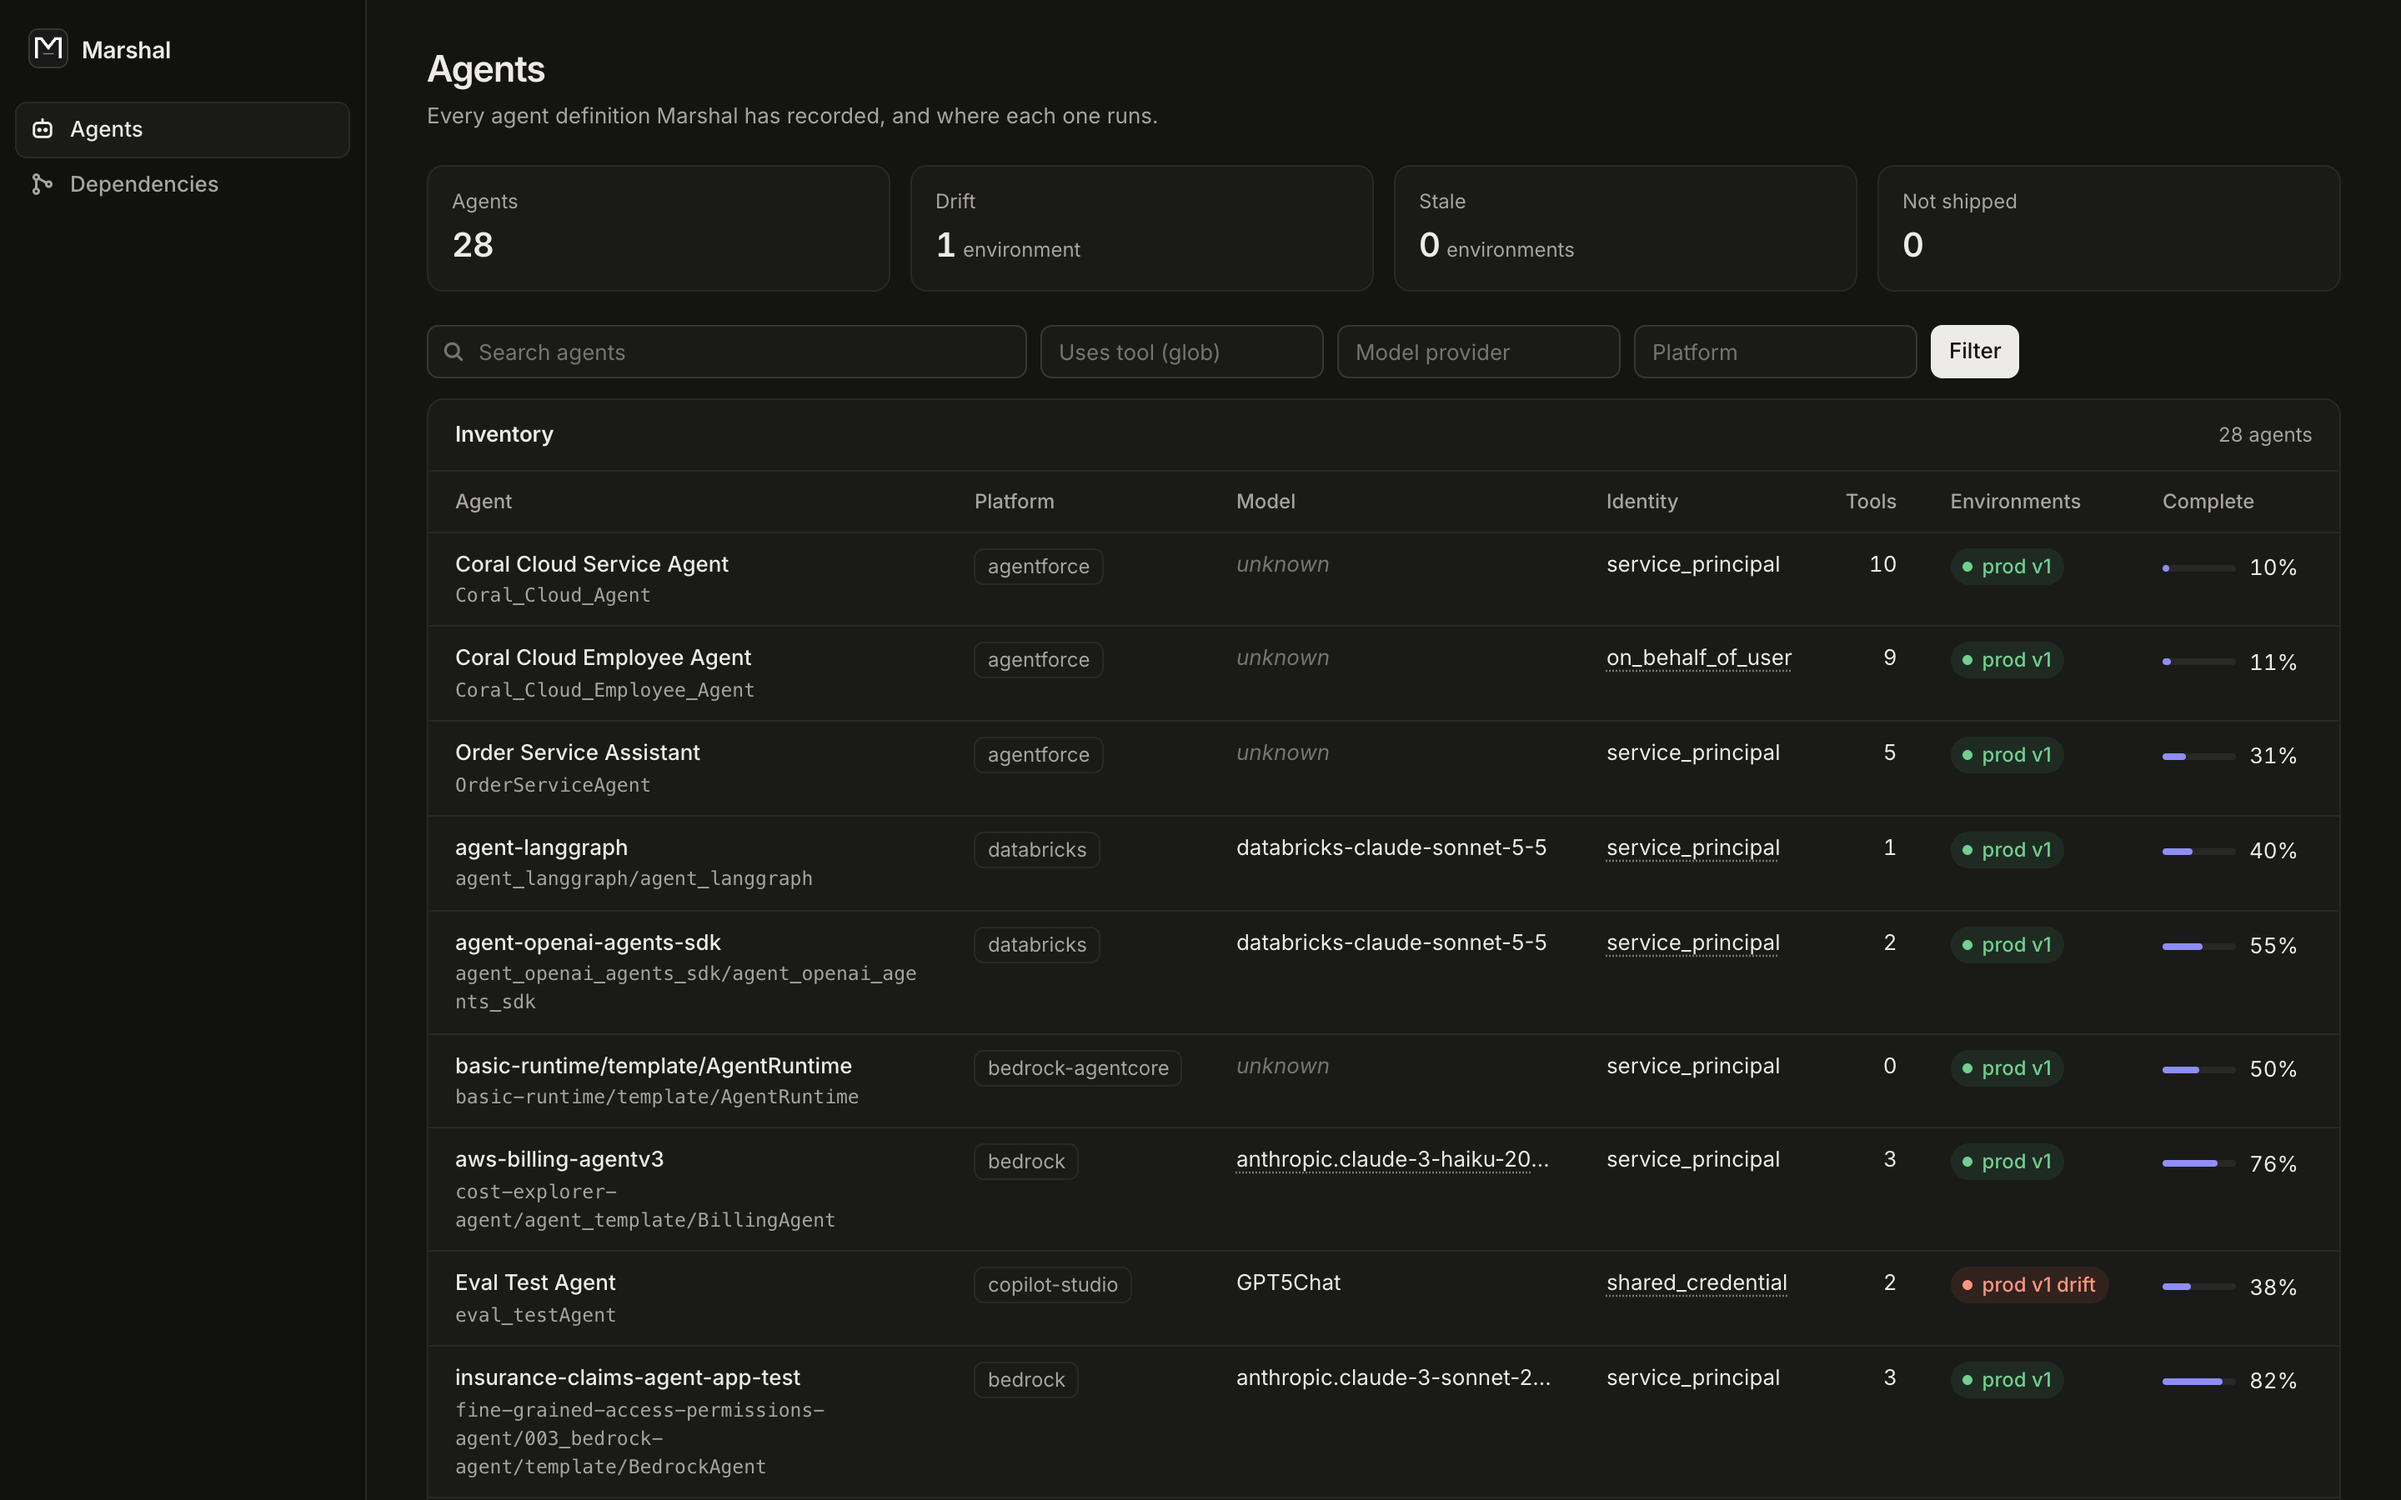
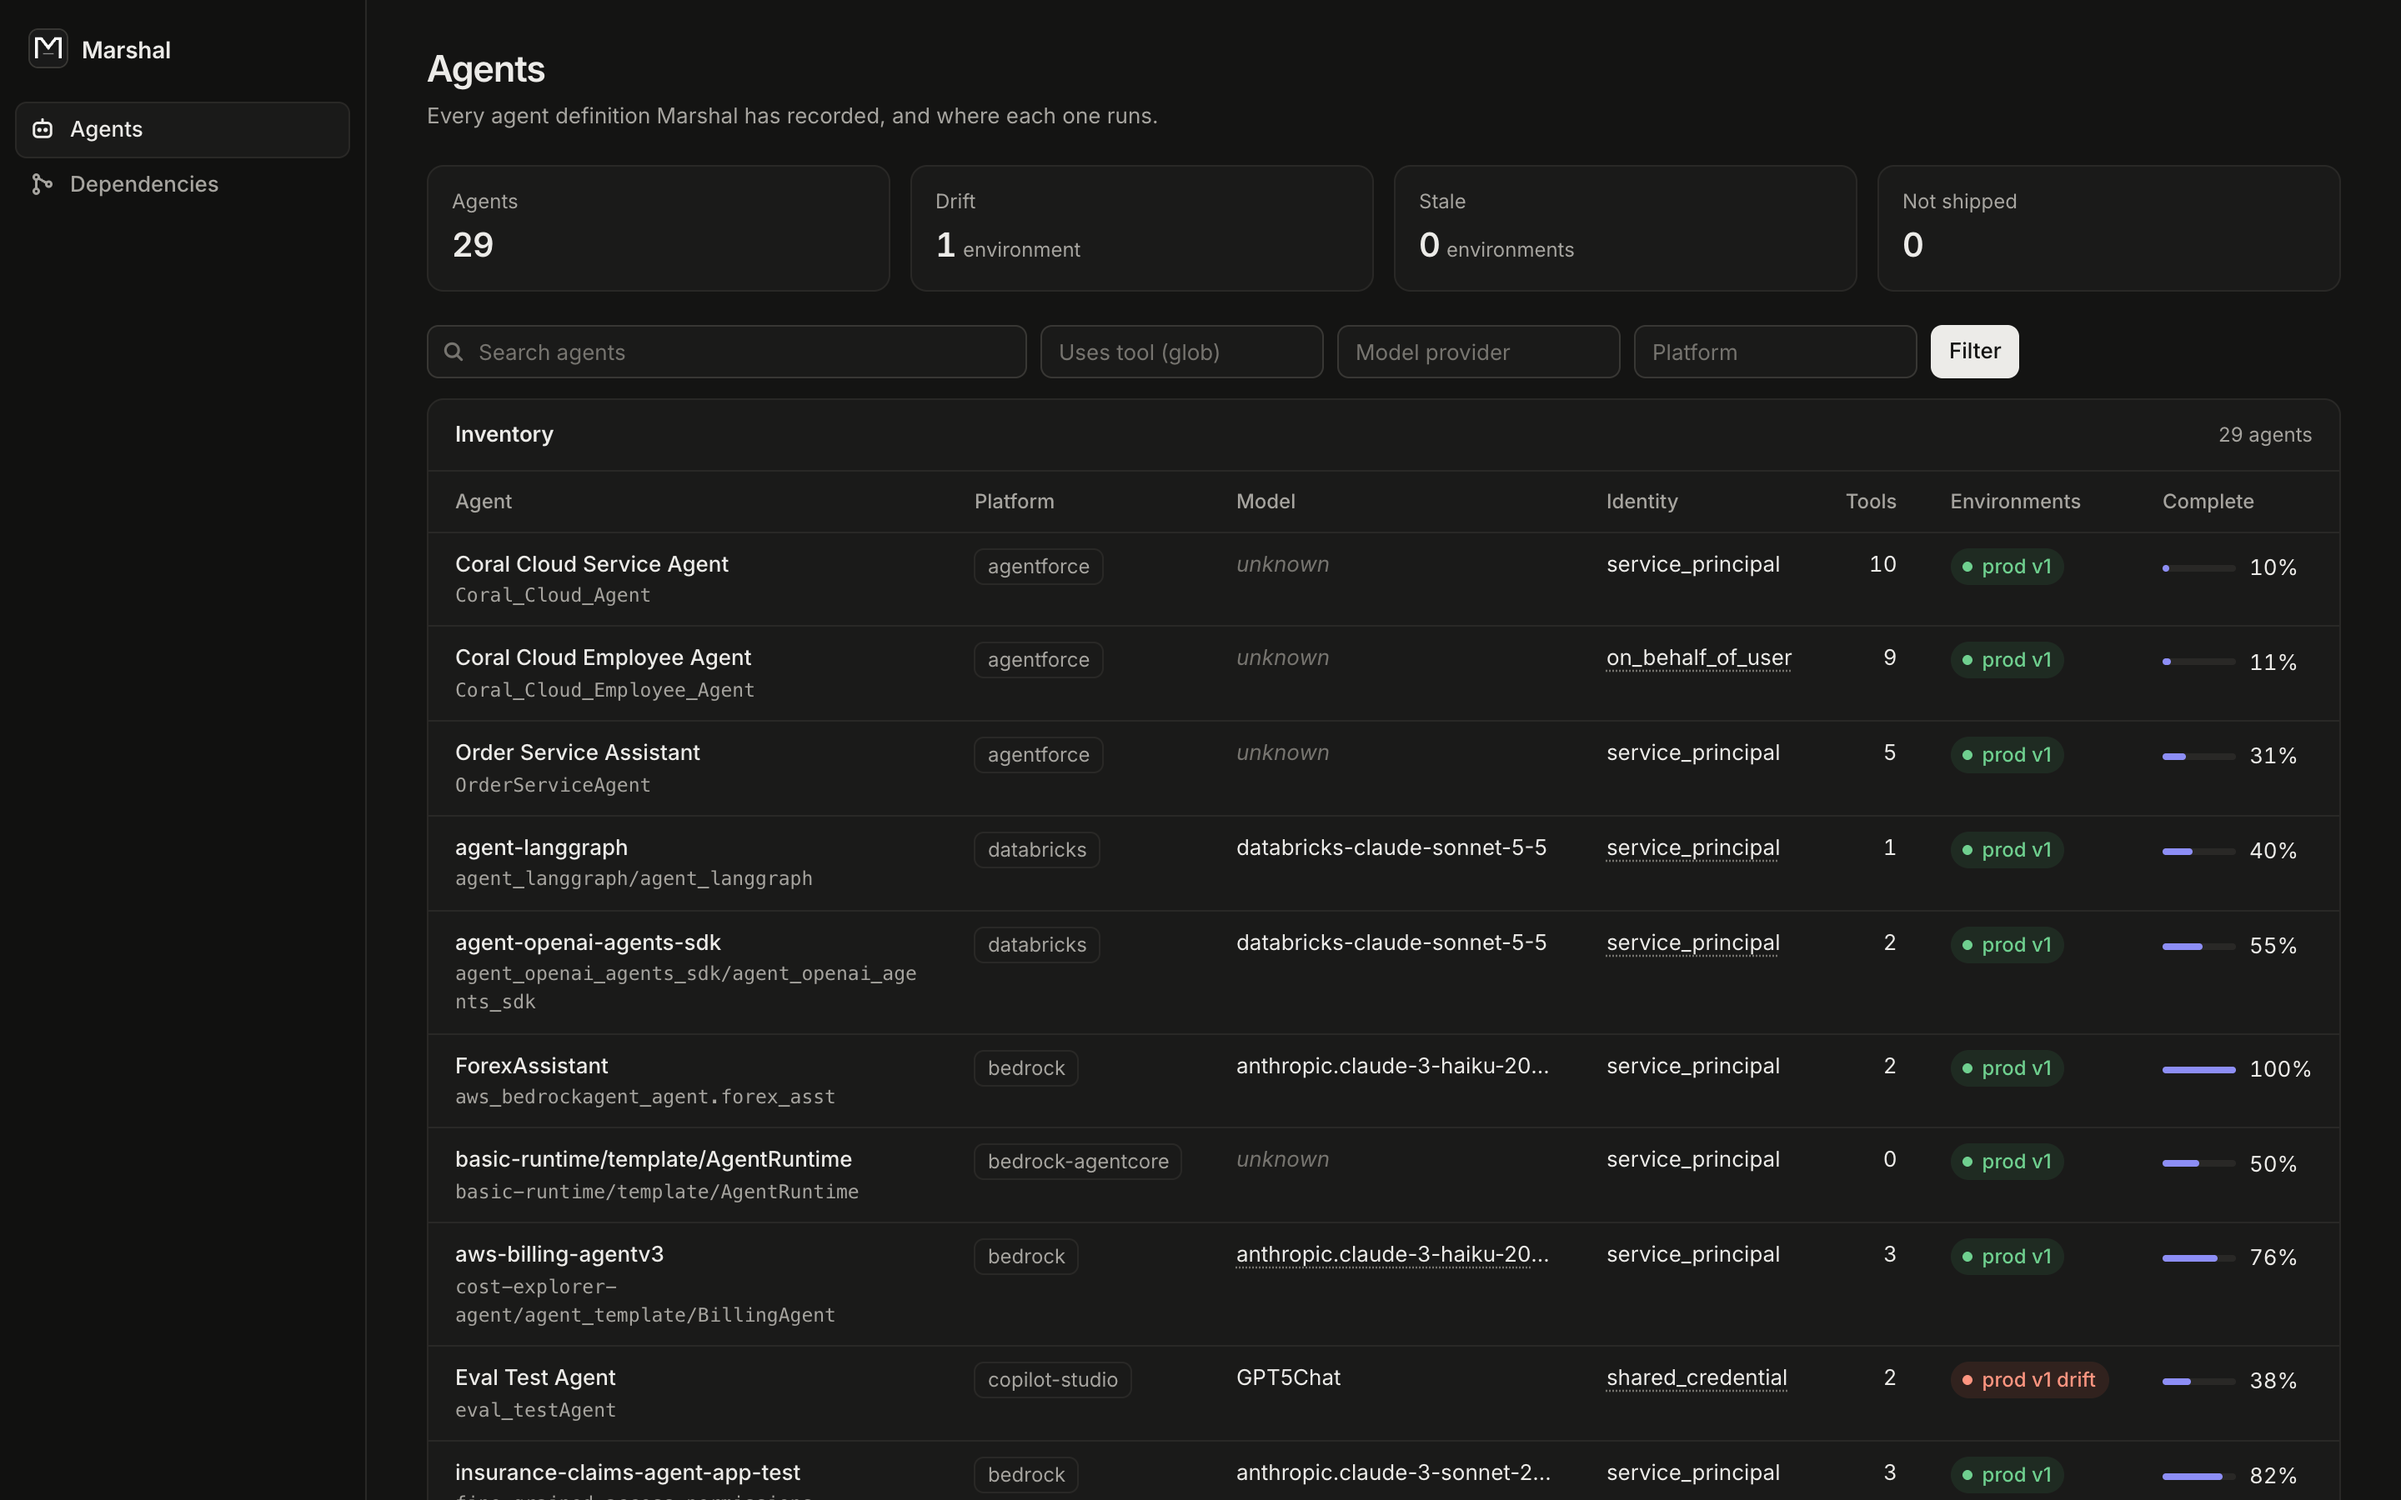
Demo: a Bedrock agent read from a Terraform plan (#28)
marshal demo fetches the acwwat-basic plan fixture from this repository,
pinned to the commit that added it, and records the forex assistant
with its action group, role and Lambda executor: 29 agents. The plan is
generated from a public Apache-2.0 example (see
tests/fixtures/terraform/README.md). Docs, screenshots and the web
view walkthrough are updated for the count.

diff --git a/src/marshal_ledger/demo.py b/src/marshal_ledger/demo.py
@@ -1,7 +1,8 @@
 """A demo ledger built from real, public agent definitions.
 
 ``marshal demo`` downloads a fixed set of agent definitions from public GitHub
-repositories, each pinned to a commit, and records them with a short history:
+repositories, each pinned to a commit (one is a Terraform plan this project generated
+from a public example; see tests/fixtures/terraform/README.md), and records them with a short history:
 agents shipped to prod, a proposed change that adds a refund function, a Copilot
 Studio agent that drifted after an edit in its web designer, and a proposed Copilot
 Studio topic that calls the API host the public ADL agents may reach, so the agents

diff --git a/scripts/build_demo.py b/scripts/build_demo.py
@@ -38,6 +38,7 @@ DEMO = [
     ("python/google-adk", None),
     ("adk-config/samples/multi_agent", None),
     ("adl/examples/packages", None),
+    ("terraform/acwwat-basic", None),
 ]
 
 

diff --git a/docs/index.md b/docs/index.md
@@ -15,7 +15,7 @@ Marshal keeps one versioned record of every AI agent in an organization, whateve
 [Get started](getting-started.md){ .md-button }
 [GitHub](https://github.com/marshal-ledger/marshal){ .md-button }
 
-![A walk through the Marshal web view: the inventory of 28 public agents, a Copilot Studio agent in drift whose tool was switched to the maker's credentials, a proposed change that adds a refund function, and the agents that share an Apex action](assets/web-tour.gif)
+![A walk through the Marshal web view: the inventory of 29 public agents, a Copilot Studio agent in drift whose tool was switched to the maker's credentials, a proposed change that adds a refund function, and the agents that share an Apex action](assets/web-tour.gif)
 
 ## What it does
 
@@ -27,8 +27,8 @@ Marshal keeps one versioned record of every AI agent in an organization, whateve
 - **Portability scores** for moving an agent to another platform, from a community-maintained capability matrix.
 - **No shared secrets:** pipelines push records authenticated by their CI provider's OIDC token. Marshal never connects to agent platforms.
 
-![The Marshal web view: an inventory of 28 agents across Agentforce, Databricks, Bedrock, Copilot Studio and Google ADK, with one environment in drift](assets/web-inventory-light.png#only-light)
-![The Marshal web view: an inventory of 28 agents across Agentforce, Databricks, Bedrock, Copilot Studio and Google ADK, with one environment in drift](assets/web-inventory-dark.png#only-dark)
+![The Marshal web view: an inventory of 29 agents across Agentforce, Databricks, Bedrock, Copilot Studio and Google ADK, with one environment in drift](assets/web-inventory-light.png#only-light)
+![The Marshal web view: an inventory of 29 agents across Agentforce, Databricks, Bedrock, Copilot Studio and Google ADK, with one environment in drift](assets/web-inventory-dark.png#only-dark)
 
 ## How it runs
 
@@ -43,7 +43,7 @@ $ uvx --from 'marshal-ledger[server]' marshal demo
 $ uvx --from 'marshal-ledger[server]' marshal web --db demo.sqlite
 ```
 
-Or install it with `pip install 'marshal-ledger[server]'`. `marshal demo` downloads 28 public agent definitions from GitHub, each pinned to a commit, and records them with a short history: two proposed changes, and a Copilot Studio agent that drifted after an edit in its web designer.
+Or install it with `pip install 'marshal-ledger[server]'`. `marshal demo` downloads 29 public agent definitions from GitHub, each pinned to a commit, and records them with a short history: two proposed changes, and a Copilot Studio agent that drifted after an edit in its web designer.
 
 ![An agent page in the web view: the Copilot Studio agent's live definition differs from what was shipped, and three HIGH changes show its tool switched to the maker's credentials](assets/web-drift-light.png#only-light)
 ![An agent page in the web view: the Copilot Studio agent's live definition differs from what was shipped, and three HIGH changes show its tool switched to the maker's credentials](assets/web-drift-dark.png#only-dark)

diff --git a/README.md b/README.md
@@ -13,7 +13,7 @@ A vendor-neutral, open-source ledger for enterprise AI agents. Any format in, an
 
 Marshal reads the agent definitions teams already produce: Databricks bundles, Copilot Studio agents, Bedrock templates, Agentforce metadata, agent code and the open standards. It builds a normalized, versioned record of every agent: what model it asks for, what tools and data it can reach, and who it acts as. Every field says where its value came from, and nothing is guessed.
 
-<img src="docs/assets/web-tour.gif" alt="A walk through the Marshal web view: the inventory of 28 public agents, a Copilot Studio agent in drift whose tool was switched to the maker's credentials, a proposed change that adds a refund function, and the agents that share an Apex action">
+<img src="docs/assets/web-tour.gif" alt="A walk through the Marshal web view: the inventory of 29 public agents, a Copilot Studio agent in drift whose tool was switched to the maker's credentials, a proposed change that adds a refund function, and the agents that share an Apex action">
 
 **Status:** alpha. Before 1.0 a minor release may change the ledger model, the ingest API or the command line; the [changelog](CHANGELOG.md) lists each such change.
 
@@ -52,7 +52,7 @@ Readers are tested against real, public definitions, pinned to a commit. No writ
 
 ## Try it
 
-Browse the [live demo](https://marshal-ledger.github.io/marshal/demo/), or build it yourself from 28 public agents, with nothing to install but [uv](https://docs.astral.sh/uv/):
+Browse the [live demo](https://marshal-ledger.github.io/marshal/demo/), or build it yourself from 29 public agents, with nothing to install but [uv](https://docs.astral.sh/uv/):
 
 ```console
 $ uvx --from 'marshal-ledger[server]' marshal demo

diff --git a/docs/getting-started.md b/docs/getting-started.md
@@ -8,11 +8,12 @@ $ marshal demo
 $ marshal web --db demo.sqlite
 ```
 
-`marshal demo` downloads public agent definitions from GitHub, each pinned to a commit, and records 28 agents from Databricks, Bedrock, AgentCore, Copilot Studio, Agentforce, Google ADK and ADL, with a short history. Open the inventory, then:
+`marshal demo` downloads public agent definitions from GitHub, each pinned to a commit, and records 29 agents from Databricks, Bedrock (CloudFormation and Terraform), AgentCore, Copilot Studio, Agentforce, Google ADK and ADL, with a short history. Open the inventory, then:
 
 - **`agent_openai_agents_sdk/agent_openai_agents_sdk`:** a proposed change that lets the agent run a function that issues refunds, with the grant it needs, both ranked MED.
 - **`eval_testAgent`:** a Copilot Studio agent that drifted after one of its tools was switched to the maker's credentials.
 - **`mpa_LeaveManagement`:** a Copilot Studio agent read from an exported solution. Its topics read Dataverse and Office 365 as the signed-in user, and it calls a Power Automate flow, so its identity is unknown rather than guessed.
+- **`aws_bedrockagent_agent.forex_asst`:** a Bedrock agent read from a Terraform plan of a public example: its action group's tools, its role, and the Lambda function that runs them.
 - **Dependencies:** search for `*CheckWeather` to see the Agentforce agents that share an Apex action.
 - **Across platforms:** `test_allthethings` has a proposed topic that calls `api.acme.example`. Search for `*api.acme.example/invoices*` to see the ADL agents whose network boundaries allow the same host.
 

diff --git a/CHANGELOG.md b/CHANGELOG.md
@@ -4,6 +4,7 @@ Notable changes to Marshal, newest first. Versions follow [Semantic Versioning](
 
 ## 0.6.0 (unreleased)
 
+- `marshal demo` adds a Bedrock agent read from a Terraform plan of a public example, for 29 agents.
 - Terraform: a new `terraform` reader reads `terraform show -json` of a saved plan or of state. It covers Bedrock agents defined with the AWS provider (`aws_bedrockagent_agent` and its action group, knowledge base, collaborator and alias resources) or the Cloud Control provider (`awscc_bedrock_agent`), and AgentCore runtimes. Values known only after apply are followed to their resources across module inputs and outputs; sensitive values are never copied. Agents are mapped by the CloudFormation reader's Bedrock mapping, so the same agent defined either way gets the same version.
 - The CloudFormation writer writes a knowledge base defined in the source itself as a template parameter, since it has no id until it is deployed.
 
